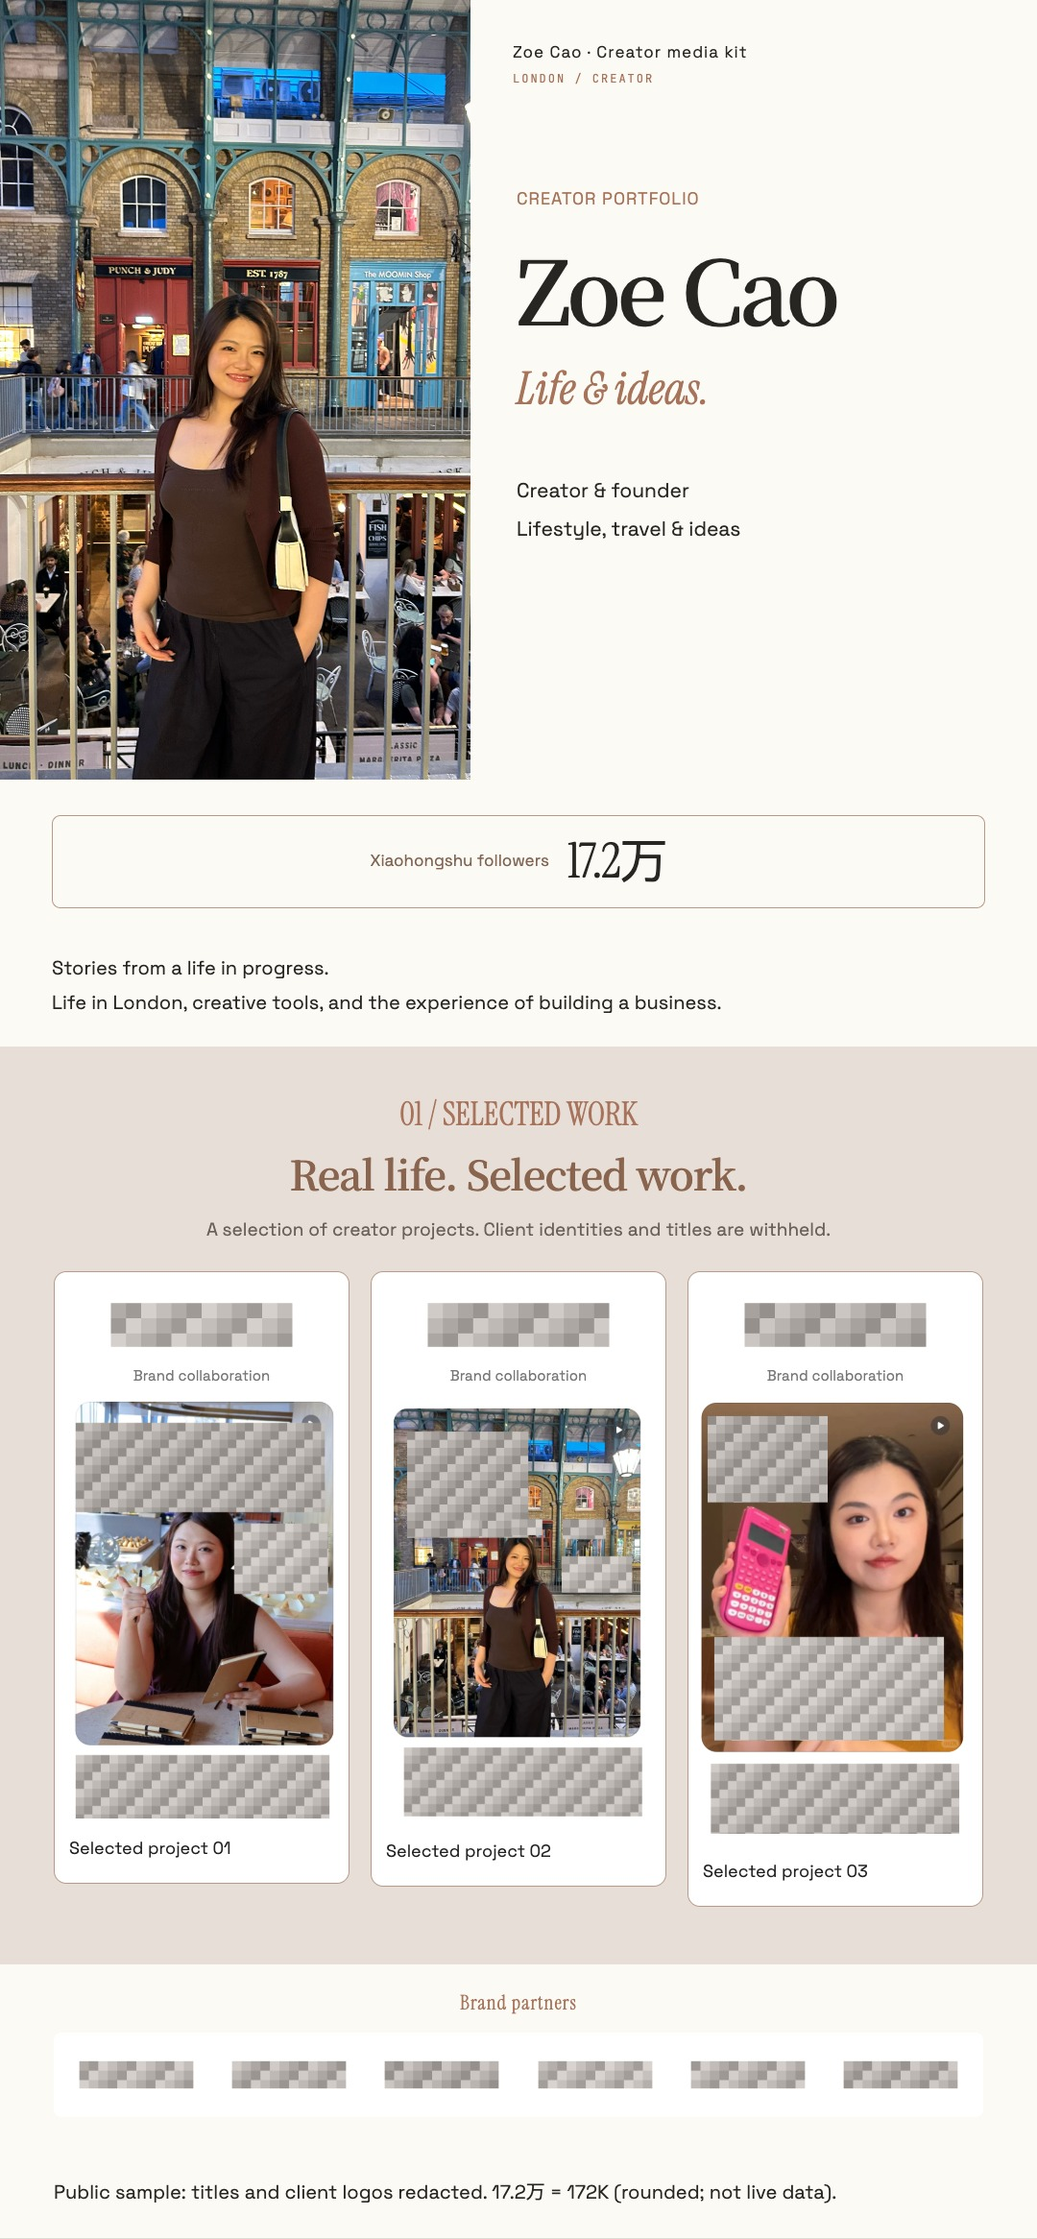
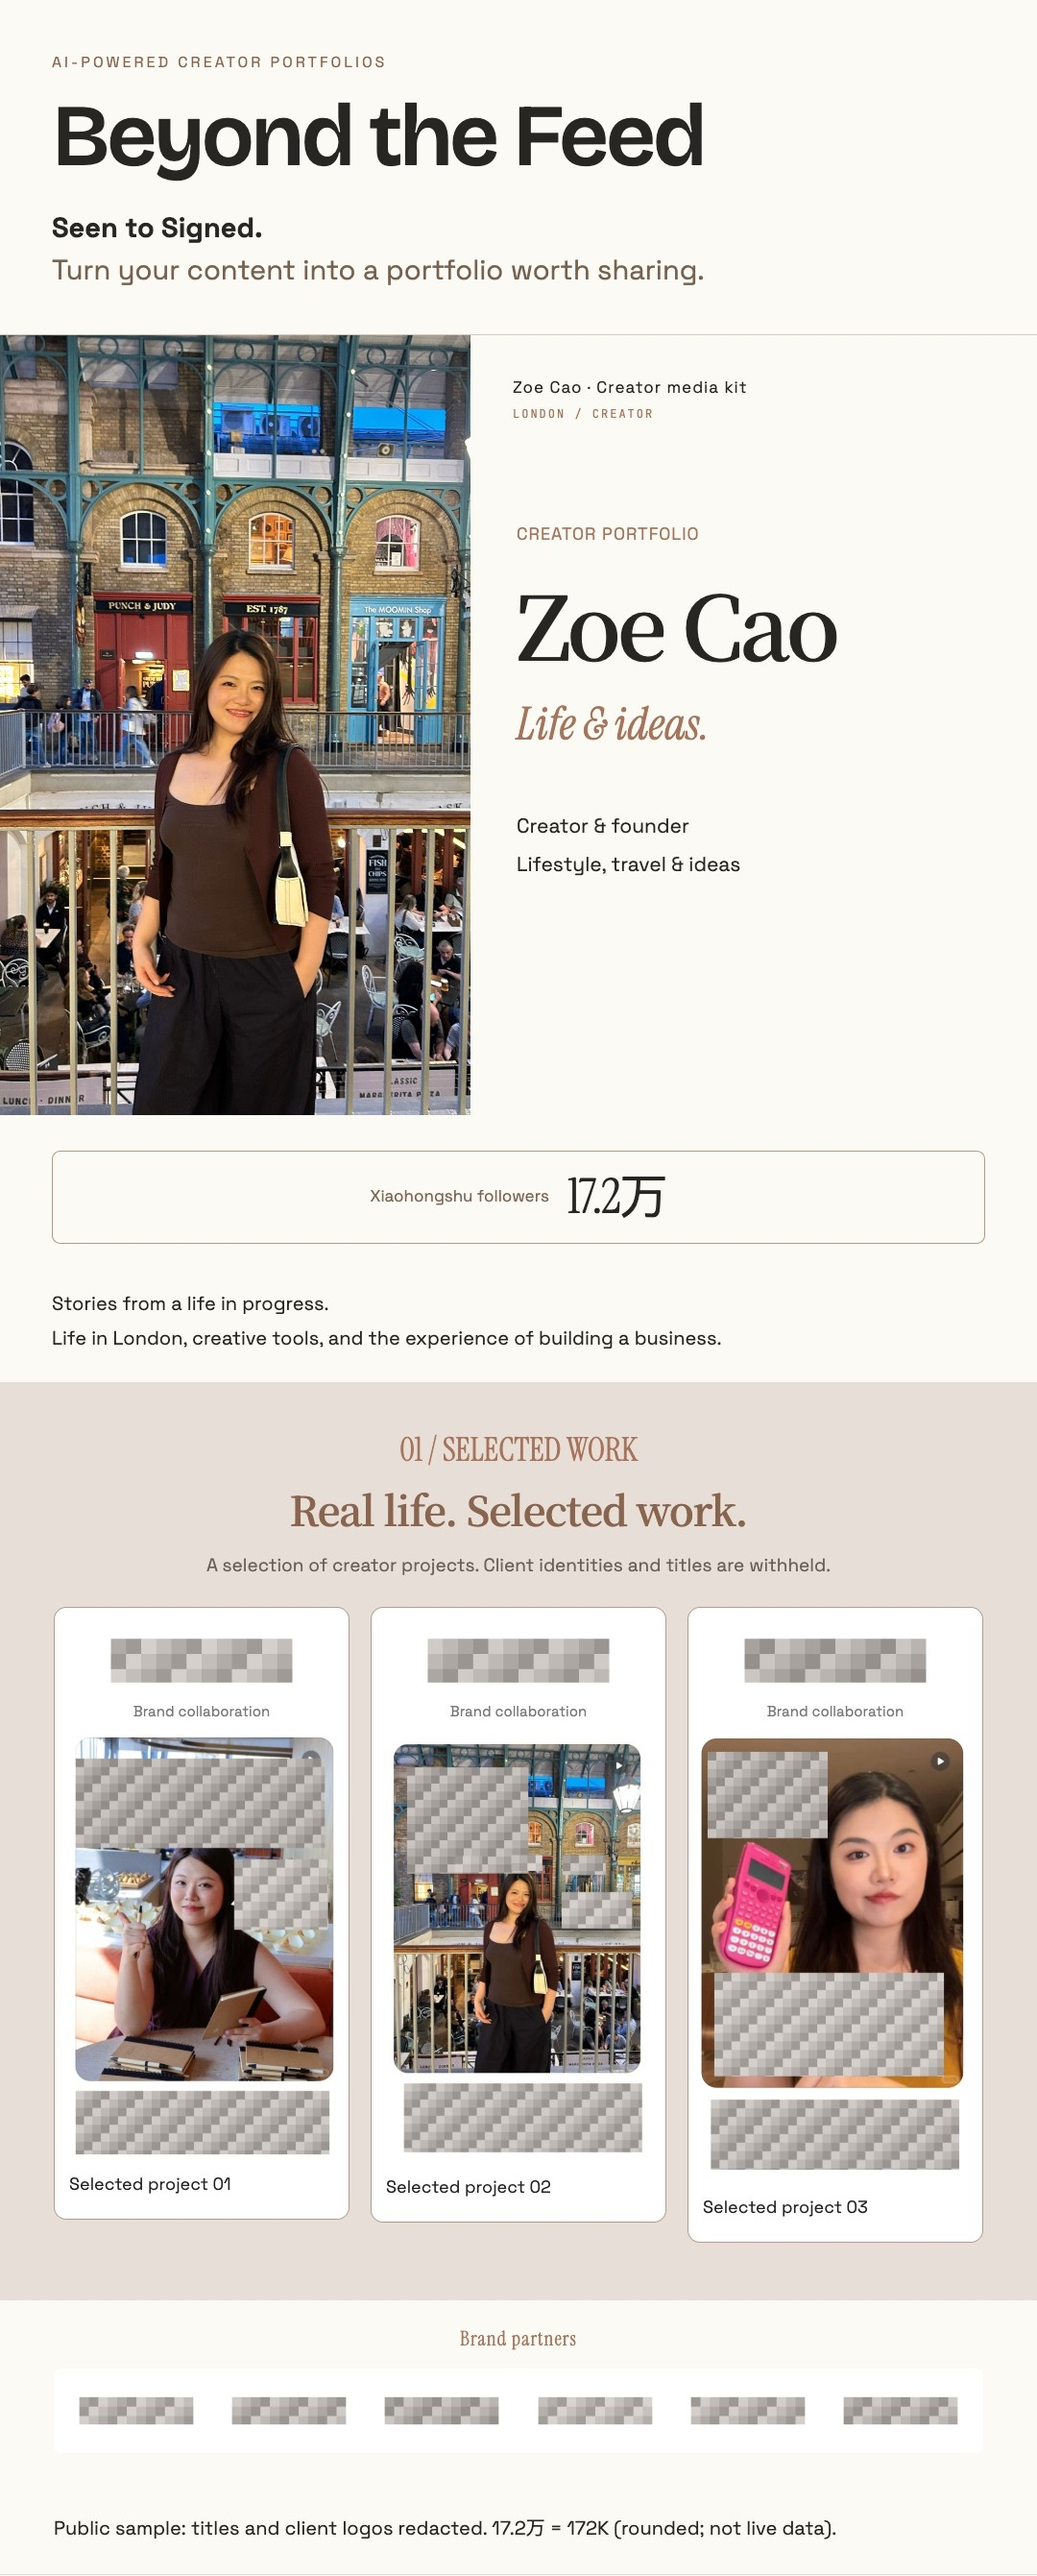
Brand the project and showcase images as Beyond the Feed

diff --git a/assets/examples/zoe-cao/showcase.html b/assets/examples/zoe-cao/showcase.html
@@ -1,0 +1,13 @@
+<!doctype html>
+<html lang="en"><meta charset="utf-8"><meta name="viewport" content="width=1080">
+<title>Beyond the Feed — Seen to Signed</title>
+<link rel="stylesheet" href="../../fonts/long-table-fonts.css">
+<link rel="stylesheet" href="../../fonts/creative-mode-fonts.css">
+<style>
+*{box-sizing:border-box}body{margin:0;background:#fcfaf4;color:#272623;font-family:'Space Grotesk',sans-serif}
+#showcase{width:1080px;margin:auto}.project-header{padding:54px 54px 46px;border-bottom:1px solid #d8c8ba}
+.eyebrow{font-size:16px;letter-spacing:3px;text-transform:uppercase;color:#886852;margin:0 0 17px}
+h1{font:600 91px/1.1 'Bricolage Grotesque',sans-serif;letter-spacing:-4px;margin:0 0 23px}
+.tagline{font-size:29px;line-height:1.5;margin:0;color:#766251}.tagline strong{color:#272623}
+img{display:block;width:1080px;height:auto}
+</style><main id="showcase"><header class="project-header"><p class="eyebrow">AI-powered creator portfolios</p><h1>Beyond the Feed</h1><p class="tagline"><strong>Seen to Signed.</strong><br>Turn your content into a portfolio worth sharing.</p></header><img src="portfolio.jpg" alt="Zoe Cao portfolio with video titles and client logos permanently redacted"></main></html>

diff --git a/scripts/build.py b/scripts/build.py
@@ -122,7 +122,7 @@ def build(inp,out,styles='all',mode='full'):
     (out/'manifest.json').write_text(json.dumps(manifest,ensure_ascii=False,indent=2))
     # Preserve provenance and the editable brief privately with the user's deliverable.
     clean=json.loads(inp.read_text());(out/'source-brief.json').write_text(json.dumps(clean,ensure_ascii=False,indent=2))
-    (out/'index.html').write_text('<!doctype html><meta charset="utf-8"><title>Creator Media Kit | Style overview</title><style>body{background:#e6e2db;font:18px sans-serif;padding:24px}.grid{display:grid;grid-template-columns:repeat('+str(min(4,len(entries)))+',1fr);gap:24px}img{width:100%}a{color:#222;text-decoration:none}h2{font-size:20px}</style><h1>Creator Media Kit | Style previews</h1><div class="grid">'+''.join('<a href="'+x['html']+'"><h2>'+esc(x['name'])+'</h2><img src="'+x['png']+'"></a>' for x in entries)+'</div>')
+    (out/'index.html').write_text('<!doctype html><meta charset="utf-8"><title>Beyond the Feed | Style overview</title><style>body{background:#e6e2db;font:18px sans-serif;padding:24px}.grid{display:grid;grid-template-columns:repeat('+str(min(4,len(entries)))+',1fr);gap:24px}img{width:100%}a{color:#222;text-decoration:none}h2{font-size:20px}.project-header{padding:12px 0 32px;border-bottom:1px solid #bfb8ae;margin-bottom:28px}.project-header h1{font-size:64px;letter-spacing:-3px;line-height:1.1;margin:0 0 16px}.project-header p{font-size:28px;margin:0;color:#62564c}.project-header strong{color:#2c2824}</style><header class="project-header"><h1>Beyond the Feed</h1><p><strong>Seen to Signed.</strong> Turn your content into a portfolio worth sharing.</p></header><div class="grid">'+''.join('<a href="'+x['html']+'"><h2>'+esc(x['name'])+'</h2><img src="'+x['png']+'"></a>' for x in entries)+'</div>')
     return manifest
 if __name__=='__main__':
     ap=argparse.ArgumentParser();ap.add_argument('--input',required=True);ap.add_argument('--output',required=True);ap.add_argument('--styles',default='all');ap.add_argument('--mode',default='full',choices=['full','preview']);a=ap.parse_args()

diff --git a/README.md b/README.md
@@ -1,14 +1,12 @@
-# Creator Media Kit
+# Beyond the Feed
 
-**Turn the work you already publish into a portfolio you can send in a conversation.**
-
-> Visibility gets you noticed, Portfolio gets you hired.
+**Seen to Signed.** Turn your content into a portfolio worth sharing.
 
 An AI skill for creators who need a clear, visual introduction to their work. Start with a screen recording, screenshots, or an accessible profile link. The assistant organizes the available evidence, recommends a visual direction, and builds a shareable media kit in PNG, JPG, and editable HTML.
 
 Eight visual styles. Three recommended previews by default. No paid data API required for the recording or screenshot workflow.
 
-![Zoe Cao — a real creator media kit with video titles and client logos redacted](assets/examples/zoe-cao/preview.jpg)
+![Beyond the Feed — Seen to Signed. A real Zoe Cao portfolio with titles and client logos redacted](assets/examples/zoe-cao/preview.jpg)
 
 *This is my own media kit, presented as Zoe Cao. The portrait and work samples are real. Video titles, identifying screenshot text, and client logos are masked for public display. The follower figure is a recorded, rounded platform count, not a live metric or a campaign result. [Compare all eight styles](assets/examples/eight-styles-preview.jpg).*
 
@@ -20,7 +18,7 @@ A personal website can hold all of that. But in the middle of a conversation, se
 
 I wanted something that fits the way those conversations already happen. One image that opens directly in a chat or sits alongside an email. A concise overview that someone can scan, save, and forward to a colleague. Enough context to understand my work and decide whether to continue the conversation.
 
-That is the idea behind Creator Media Kit. The example above uses my own photographs and selected work, so you can see the kind of introduction I wanted to be able to send. The public version keeps the person and the visual composition while withholding specific video titles and client identities.
+That is the idea behind Beyond the Feed. The example above uses my own photographs and selected work, so you can see the kind of introduction I wanted to be able to send. The public version keeps the person and the visual composition while withholding specific video titles and client identities.
 
 The starting material already exists. It is on a creator's profile, in their published posts, and in the screenshots they keep collecting. The difficult part is choosing what matters, explaining it clearly, and putting it into a consistent visual format. I built this skill to help with that transition: from a collection of posts to an introduction someone can use to evaluate a potential collaboration.
 
@@ -151,7 +149,7 @@ To reproduce the redacted showcase locally, use `assets/examples/zoe-cao/brief.j
 
 ## Eight visual directions
 
-![Eight English media kit styles featuring Zoe Cao, with titles and client identities redacted](assets/examples/eight-styles-preview.jpg)
+![Beyond the Feed — eight English portfolio styles featuring Zoe Cao, with titles and client identities redacted](assets/examples/eight-styles-preview.jpg)
 
 | Style | Character | Style ID |
 | --- | --- | --- |

diff --git a/SKILL.md b/SKILL.md
@@ -3,7 +3,7 @@ name: creator-media-kit
 description: Create creator media kits and brand partnership portfolios from profile recordings, screenshots, account details, or accessible profile links. Deliver PNG, JPG, and editable HTML in eight available styles, with evidence-based statistics and optional portraits or confirmed brand logos. Use for creator partnership introductions, not franchise sales or fundraising decks.
 ---
 
-# Creator Media Kit
+# Beyond the Feed
 
 Turn authentic creator materials into a visual introduction that a potential partner can scan in a chat or email. Accept a recording, screenshots, a profile link, or an existing brief; use available material before asking for more. Documentation and fixed template labels are English. Draft English explanatory copy by default while preserving names, raw numerical values, and original source images.
 
